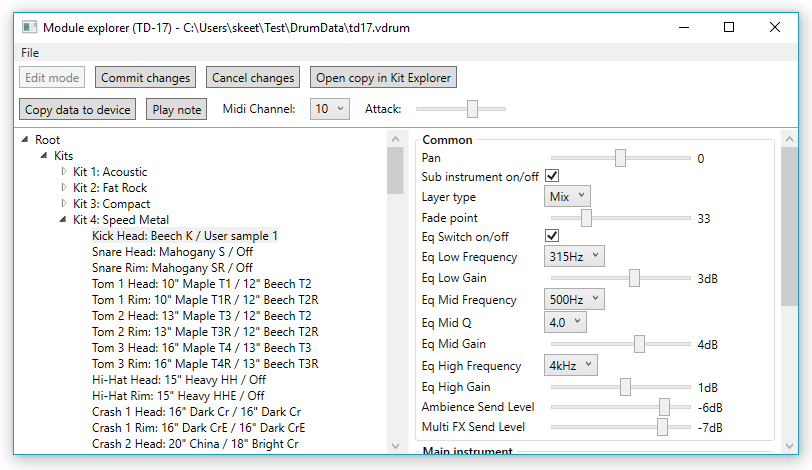
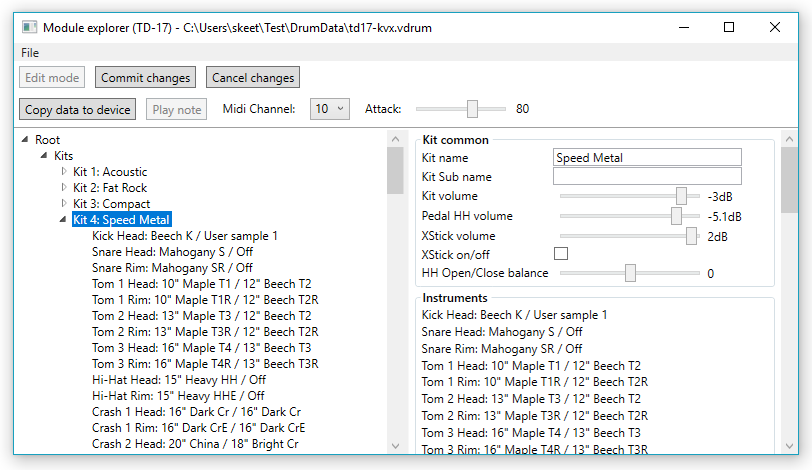
Updated documentation for 1.0.0-alpha02

diff --git a/Drums/index.md b/Drums/index.md
@@ -17,21 +17,23 @@ how you get on with this.
 # Requirements
 
 - Windows 8.1 or Windows 10
-- .NET 4.7.2 or later or .NET Core 3.0
+- .NET 4.7.2 or later
 - To be genuinely useful, a Roland TD-17 or TD-50 V-Drums drum kit, turned on and connected via USB (see later for details)
 
 # Installation
 
-There's currently no Windows installer. I may produce one if I get a chance.
+Download: [Windows Installer](https://github.com/jskeet/DemoCode/releases/download/VDrumExplorer-1.0.0-alpha02/VDrumExplorer-Setup.msi)
 
-- Download a zip file from one of the [releases](https://github.com/jskeet/DemoCode/releases) on GitHub.
-  You'll need to expand the "Assets" part of the given release. Separate zip files are available for the .NET desktop framework and .NET Core.
-  If you aren't sure, you probably want the "desktop" version.
-- Unzip the zip file anywhere on your machine
-- Go into the directory created for you
-- Run VDrumExplorer.Wpf.exe
-- If Windows SmartScreen gives a warning, click on "More Info", check that it is signed
-  by me ("Jonathan Skeet") and then choose the option to run it.
+As of 1.0.0-alpha02, there's a Windows installer. Download the
+latest installer above, or from the [releases](https://github.com/jskeet/DemoCode/releases)
+on GitHub. If you use GitHub, you'll need to expand the "Assets" part of the given release. If
+you'd prefer not to run the installer, there's a zip file as well.
+
+The application that's installed is called "V-Drum Explorer"; if
+you're using the zip file, you want to run VDrumExplorer.Wpf.exe.
+
+If Windows SmartScreen gives a warning, click on "More Info", check that it is signed
+by me ("Jonathan Skeet") and then choose the option to run it.
 
 **Important note for drum kit connection**
 
@@ -42,11 +44,12 @@ starting the Explorer.
 
 # Usage
 
-There are three windows in the application:
+There are four windows in the application:
 
 - [Module Loader](#module-loader)
 - [Module Explorer](#module-explorer)
 - [Kit Explorer](#kit-explorer)
+- [Instrument Audio Explorer](#instrument-audio-explorer)
 
 When the application is launched, the Module Loader will be shown.
 
@@ -69,10 +72,14 @@ disabled.
 Even without a drum module, you can still load and save
 files, and edit the data.
 
-Click on "Load module/kit file" to load a file. The application will
+Click on "Load file" to load a file. The application will
 detect whether it contains data for a whole module or a single kit,
-and display the appropriate window, as described later. A sample
-file (td17.vdrum) is provided in the zip file with the application.
+or instrument audio, and display the appropriate window, as described later. A sample
+file (td17.vdrum) is provided with the application. (If you run the
+Windows installer, the file is installed in
+'Program Files (x86)\VDrumExplorer' - I know that's a little odd as
+it isn't a binary, but it simplifies things while I'm learning about
+Windows installers and WiX.)
 
 Click on "Save log file" to simply save the contents of the log (as
 displayed in the Module Loader) to a text file. This is primarily to
@@ -84,8 +91,8 @@ all logging, including for log entries created by other windows.
 If a module is detected, you can load data from it with the two
 buttons in the second row:
 
-- Load the complete data for a module with the "Load all data from device" button
-- Load a single kit by entering the kit number and clicking "Load single kit from device"
+- Load the complete data for a module with the "Load all data" button
+- Load a single kit by entering the kit number and clicking "Load single"
 
 When loading a single kit, the value in the "Kit number" textbox
 should be an integer between 1 and 100. (If other modules are ever
@@ -171,13 +178,27 @@ data (from "Root" downwards) will take a very long time.
 Note that in edit mode, the data copied is what you currently see,
 including any changes you've made.
 
-### Opening a kit in Kit Explorer
+### Kit context options
 
-If the currently selected tree node is within a kit, the "Open copy
-in Kit Explorer" button will be enabled. This does exactly what it
-says: it creates an independent copy of all the data for the kit
-(including any in-progress changes, if you're in edit mode) and
-opens up a new Kit Explorer window.
+Right-clicking on a the root node of a kit within the tree will open
+a context menu like this:
+
+![Kit context menu](module-explorer-3.png)
+
+This currently provides four options:
+
+- Create an independent copy of the kit in memory, and open it in
+  Kit Explorer
+- Copy the kit to another slot in the module (overwriting the
+  current kit there)
+- Import data from a .vkit file (overwriting the data in the current
+  kit)
+- Export the current kit data to a .vkit file
+
+For the second of these options, a dialog box opens asking you which
+kit you would like to copy the selected one to:
+
+![Kit copy selection dialog](kit-copy-selection.png)
 
 ### Saving to disk
 
@@ -210,24 +231,141 @@ you most often use on the device for that kit.
 The File/Save menu item allows you to save the kit to a .vkit file,
 which can be opened later in Module Loader.
 
+## Instrument Audio Explorer
+
+Playing an instrument within the Kit Explorer or Module Explorer
+requires you to have the module connected, with the right instrument
+on the currently selected kit. That makes it hard to edit a kit on
+the move, unless you know exactly what each instrument sounds like.
+
+V-Drum Explorer allows you to record all the instruments from your
+module via the audio connection to your computer, save the data to a
+file, then load the file again later to allow you to play each
+instrument without the module being present.
+
+### Recording instruments
+
+To take advantage of this functionality, first you need to record
+the audio data. Start V-Drum Explorer with the module connected and
+turned on, then click on "Record instruments" in the Module Loader.
+
+The instrument recording dialog will be displayed:
+
+![Instrument recording dialog](instrument-recorder-dialog.png)
+
+Before recording, there are some things to check:
+
+- Make sure your USB audio output is set appropriately. The default
+  setting on the TD-17 is very quiet, for example. In the TD-17, on
+  the module, press the Setup button, select the USB option, and set
+  the "USB Output Gain" option. I had success with a setting of +20dB.
+- Select how many user samples you wish to record. There's no point in
+  recording more samples than are populated on your module, but the
+  explorer can't determine how many there are. Also, you may not wish
+  to record the samples anyway.
+- Select the relevant audio device in the dialog. (In the above
+  example, my audio device is "IN (3- TD-17)".)
+- Make sure your module has the same kit selected as is shown in the
+  dialog box. You can edit this; I'd recommend using a "user" kit that
+  is still untouched, for two reasons:
+  - It won't have any MultiFX etc applied to it, so you'll get a
+    fairly vanilla recording.
+  - If the explorer crashes while recording, you won't have lost any
+    useful data. (See notes below for what the process involves.)
+- Choose a file to save the data to. Note that the files can be
+  quite large (e.g. around 75MB for a TD-17 with 7 user samples and
+  the default 2.5s recording duration) so make sure there is enough
+  disk space wherever you're saving to.
+- Make sure the Midi channel is correct for your kit. (This is the
+  same channel used to play instruments in the Module Explorer and Kit
+  Explorer, so that's an easy way to test it.)
+- Optionally change the recording duration per instrument and the
+  attack with which each instrument is struck. The defaults should be
+  fine in most cases.
+
+Once you're ready, click "Start recording". Importantly, you need to
+leave the drum set alone at this point: if you change settings on
+the module, or strike the pads, you could end up with undesirable
+results.
+
+**Note:** Recording all the samples takes a long time, particularly
+on the TD-50 with over 400 instruments. As well as the recording
+time itself, there's a little overhead while the instrument is
+changed etc. So on a TD-50, recording 2.5s of audio per instrument
+could take over 20 minutes. Please be patient! (The progress bar
+will show you how it's doing, of course.)
+
+The process works as follows:
+
+- Load the data for instrument 1 (typically the kick drum) from the
+  kit, so it can be restored later.
+- For each available instrument:
+  - Silence the module (to stop the previous instrument sound)
+  - Change the assigned instrument for instrument 1 on the module
+  - Start recording in memory
+  - Play the note
+  - Stop recording after the configured duration
+- Save the file containing all the audio captures
+- Restore the original data, including if an error occurs
+
+The last part about data restoration can fail in some situations - for
+example if you disconnect the USB cable while recording. For this
+reason, I recommend backing up the kit first if you've made any
+modifications to it, or (preferably) using a kit you haven't modified.
+
+When recording is complete, the dialog will close automatically.
+
+### Opening the Instrument Audio Explorer
+
+In order to open the Instrument Audio Explorer, click on "Load File"
+in the Module Loader and open a previously-saved audio recording
+.vaudio file. This will open up the Instrument Audio Explorer:
+
+![Instrument Audio Explorer](instrument-audio-explorer.png)
+
+Select an output device from the drop-down ("Speakers (Surface
+Dock)" in the screenshot above) and then click on one of the
+instrument groups on the left hand side. The recorded instruments
+will be shown on the right hand side, with Play buttons. Clicking on
+a Play button will play the recorded sample from the file.
+
+Note that you can have an Instrument Audio Explorer window open at
+the same time as a Kit Explorer or Module Explorer window, and this
+is the recommended approach if you're trying to work out which
+instruments to include in a new kit.
+
+**Quality note:** When developing the feature, some recordings ended
+up being cut off when playing back. This is definitely a problem
+with the recording side rather than the playback side. I *believe*
+I've fixed it, but I can't be sure. It's most noticeable on
+percussion and sound FX instruments. If you run into this problem,
+please let me know (skeet@pobox.com) - you may well find that just
+re-recording the file fixes it, but I'd like to know anyway. (And
+apologies in advance.)
+
 # Further work
 
-- Maybe a WiX installer after all
-  - May simplify uses of settings, kit files etc
+- Selective instrument recording, and possibly audio format selection
+- Change kit (and back) when recording instruments
+- Make the Instrument Audio Explorer prettier (do we really need so
+  many Play buttons?)
 - An icon!
 - Cleaner user interface for loading or copying a single kit (the textbox is ugly)
-- Ability to change default kit number
-- Kit functionality within Module Explorer:
-  - Import a single kit
-  - Export a single kit (equivalent to "open in kit explorer, save")
-  - Copy a kit to another slot
 - Defaults for TD-50 instruments (e.g. size for cymbals)
 - UI options, e.g. whether to use sliders
-- Generate sound files from the module, for easy instrument picking
 - Load/save/overlay masked instrument settings
-- (Internal) Consider generating C# code from schema to have a cleaner model
+- (Internal) Consider generating/writing C# code from schema to have a cleaner model
 
 # Version history
+
+## Version 1.0.0-alpha02
+
+- Ability to record instrument sounds and then open the Instrument Audio Explorer
+- Windows installer
+- Moved "Open copy in Kit Explorer" to context menu
+- Added "Copy kit" feature (in context menu)
+- Added "Import kit from file" feature (in context menu)
+- Added "Export kit to file" feature (in context menu)
 
 ## Version 1.0.0-alpha01
 
@@ -245,6 +383,7 @@ which can be opened later in Module Loader.
 - Fix the Ride vedit overlay for the TD-50
 - Introduce a "default kit number" in kit files, and allow it to be edited
 - Improve display of the root node in Kit Explorer (no more "Kit 1")
+- The use of sliders for numeric fields
 
 ## Version 0.1, 2019-09-15
 
